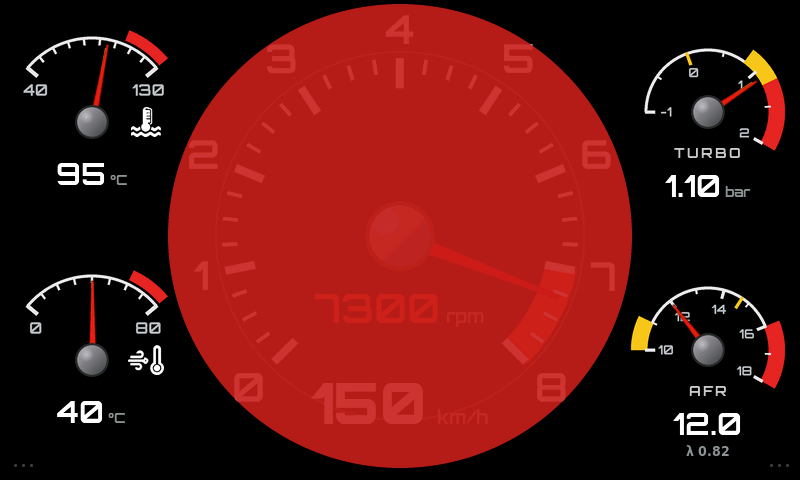
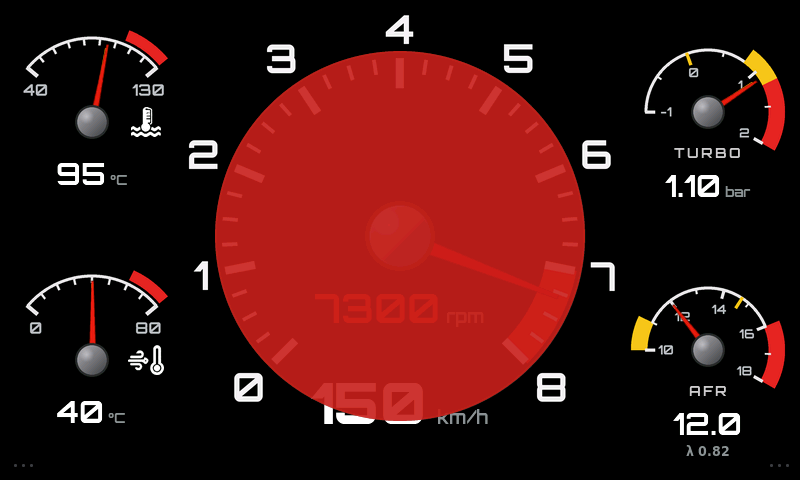
dash: rev counter flash stays inside the face rim
In rev counter mode the shift flash disc now has the face radius
(BIG_FACE_R, now exported in dials.h) instead of 232 px, so the scale
numbers outside the rim are never covered. DASH_VERSION 2.6.

Claude-Session: https://claude.ai/code/session_018SKN4tJhAPpVCWtvRZgZpD

Changed region(s): [[0.1875, 0.0, 0.8125, 1.0]]

diff --git a/dash/notstock-dash-7inch/main/ui.c b/dash/notstock-dash-7inch/main/ui.c
@@ -61,8 +61,9 @@
 #define LY_TURBO_VAL_DY  52
 #define LY_SUB_DY        94                /* lambda line under the AFR */
 
-/* shift flash disc in rev counter mode, covers the scale and its numbers */
-#define LY_FLASH_R    232
+/* shift flash disc in rev counter mode: the dark face inside the rim, so the
+ * numbers outside it stay readable */
+#define LY_FLASH_R    BIG_FACE_R
 
 #define LY_LINK_Y     450                  /* NO CAN / DEMO, bottom left */
 

diff --git a/dash/notstock-dash-7inch/main/ui_menu.h b/dash/notstock-dash-7inch/main/ui_menu.h
@@ -4,7 +4,7 @@
 /* Bump on every flashed build. Shown bottom right of the settings screen next
  * to the build date, so a panel in the car can be identified without a
  * laptop. */
-#define DASH_VERSION "2.5"
+#define DASH_VERSION "2.6"
 
 void ui_menu_create(void);
 void ui_menu_refresh(void);

diff --git a/dash/notstock-dash-7inch/main/dials.h b/dash/notstock-dash-7inch/main/dials.h
@@ -20,6 +20,7 @@ extern const lv_img_dsc_t hub_turbo;
 #define BIG_SWEEP_START          135
 #define BIG_SWEEP                270
 #define BIG_SIZE                 500
+#define BIG_FACE_R               185
 #define RPM_MAX                  8000
 #define RPM_REDLINE              7000
 

diff --git a/dash/notstock-dash-7inch/tools/gen_dials.py b/dash/notstock-dash-7inch/tools/gen_dials.py
@@ -423,6 +423,7 @@ def main():
     define("BIG_SWEEP_START", BIG_SWEEP_START)
     define("BIG_SWEEP", BIG_SWEEP)
     define("BIG_SIZE", BIG)
+    define("BIG_FACE_R", BIG_FACE_R)
     define("RPM_MAX", RPM_MAX)
     define("RPM_REDLINE", RPM_REDLINE)
     h.append("")

diff --git a/dash/notstock-dash-7inch/README.md b/dash/notstock-dash-7inch/README.md
@@ -188,7 +188,7 @@ The hit area is invisible apart from three dim dots; nothing about normal
 driving opens it. Values apply live as you adjust them, SAVE & CLOSE writes
 them to NVS so they survive a power cut, DEFAULTS puts everything back.
 
-The build stamp sits bottom right of that screen: `NOT STOCK v2.5` over the
+The build stamp sits bottom right of that screen: `NOT STOCK v2.6` over the
 compile date, the LVGL version and the IDF version. `DASH_VERSION` in
 `main/ui_menu.h` is the bit to bump.
 
@@ -197,7 +197,7 @@ compile date, the LVGL version and the IDF version. `DASH_VERSION` in
 | Shift flash | on/off | master switch for the shift flash |
 | Shift flash at | 0-9000 rpm | 0 disables it |
 | Shift flash level | 10-100 % | peak opacity of the wash |
-| Shift flash area | Screen / Rev counter | whole screen, or a disc over the rev counter |
+| Shift flash area | Screen / Rev counter | whole screen, or the rev counter face inside its rim (numbers stay clear) |
 | Shift flash colour | Red / White / Blue / Amber | |
 | Shift flash period | 80-600 ms | one on + off cycle, default 200 ms (5 Hz) |
 | Water temp | 60-130 degC | readout red at or above |
